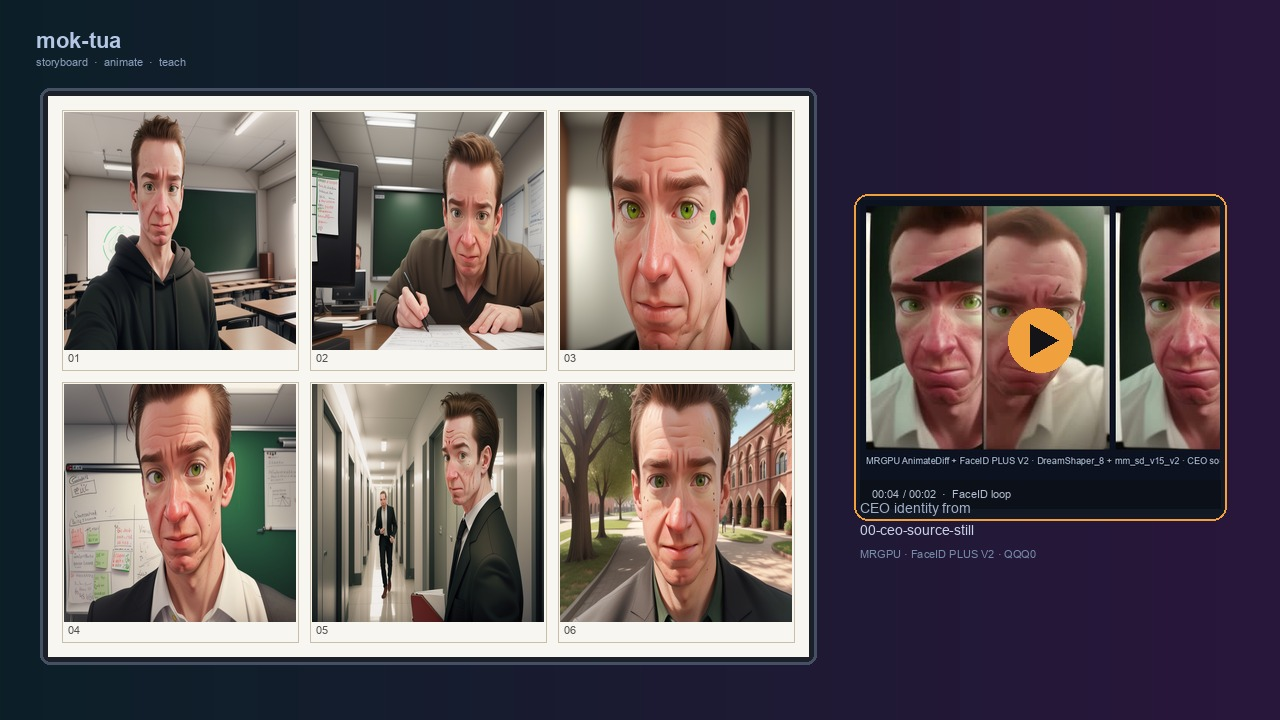
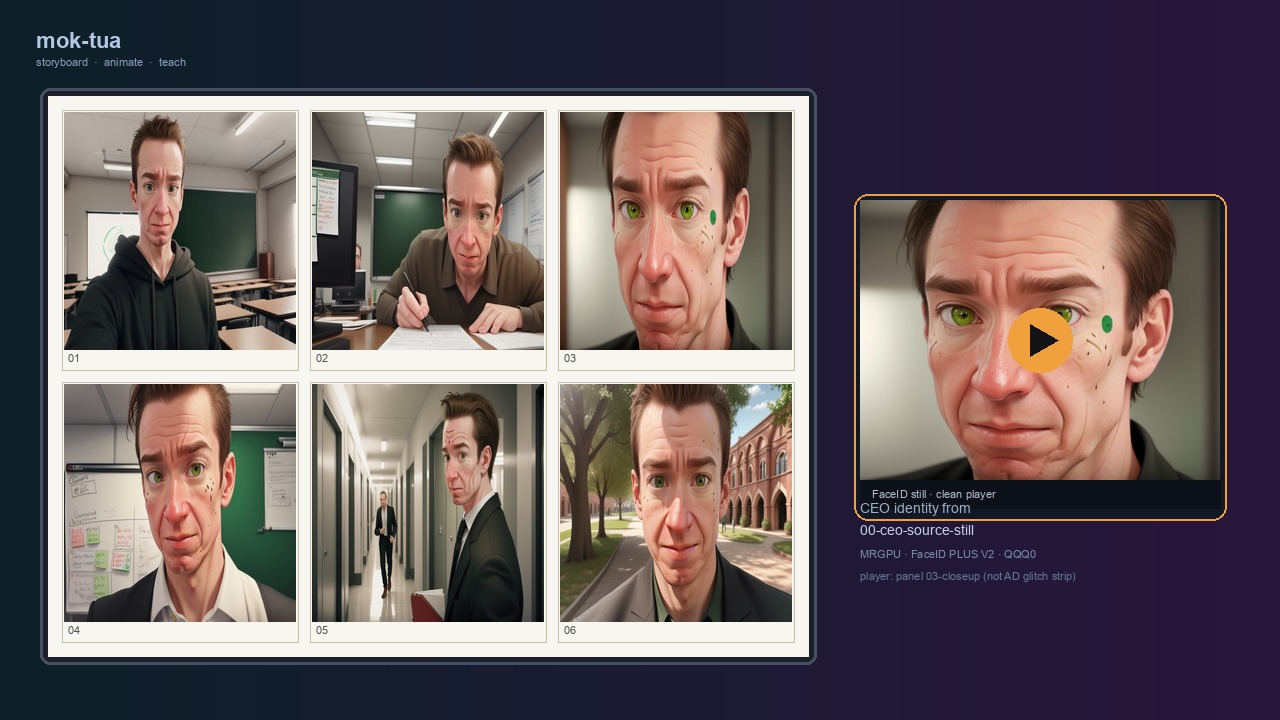
fix(assets): hero player black-blade glitch (retouch, keep 0.5.7)
Recompose hero-prompt-to-product.jpg with clean FaceID closeup in the
player chrome instead of multi-frame AD strip crop. Regen
product-capabilities-07-hero + index. Compose script law updated.

Changed region(s): [[0.6562, 0.275, 0.9688, 0.7028], [0.6562, 0.7944, 0.8438, 0.825]]

diff --git a/scripts/regen_ceo_capability_assets.py b/scripts/regen_ceo_capability_assets.py
@@ -625,26 +625,45 @@ def compose_hero(panel_paths: list[Path], strip_or_panel: Path, out_path: Path) 
         canvas.paste(im, (x, y))
         draw.text((x + 4, y + cell_h - 16), f"{i+1:02d}", fill=(80, 80, 80), font=font_xs)
 
-    # Player chrome
+    # Player chrome — ONE clean still only.
+    # Never paste a multi-frame AD strip (wide crop of glitched frames → black "blade" on forehead).
     px, py = 860, 200
     pw, ph = 360, 280
-    draw.rounded_rectangle([px - 6, py - 6, px + pw + 6, py + ph + 40], radius=14, fill=(18, 24, 36), outline=(240, 160, 60), width=2)
-    # content
+    draw.rounded_rectangle(
+        [px - 6, py - 6, px + pw + 6, py + ph + 40],
+        radius=14,
+        fill=(18, 24, 36),
+        outline=(240, 160, 60),
+        width=2,
+    )
     if strip_or_panel.is_file():
         im = Image.open(strip_or_panel).convert("RGB")
-        # if strip is wide, crop left frame-ish
-        if im.width > im.height * 1.5:
-            # use first portion
-            crop_w = int(im.height * pw / ph)
-            im = im.crop((0, 0, min(crop_w, im.width), im.height))
+        # Multi-frame strip → first frame cell only
+        if im.width > im.height * 1.8:
+            content_h = im.height - 48 if im.height > 100 else im.height
+            frame_w = max(1, (im.width - 8 * 5) // 4)
+            im = im.crop((8, 8, 8 + frame_w, 8 + max(1, content_h)))
+        # cover-crop to player aspect
+        target_ratio = pw / ph
+        ir = im.width / max(1, im.height)
+        if ir > target_ratio:
+            nh = im.height
+            nw = int(nh * target_ratio)
+            left = (im.width - nw) // 2
+            im = im.crop((left, 0, left + nw, nh))
+        else:
+            nw = im.width
+            nh = int(nw / target_ratio)
+            top = max(0, (im.height - nh) // 2 - nh // 10)
+            top = min(top, max(0, im.height - nh))
+            im = im.crop((0, top, nw, top + nh))
         im = im.resize((pw, ph), Image.Resampling.LANCZOS)
         canvas.paste(im, (px, py))
-    # play button
     cx, cy = px + pw // 2, py + ph // 2
-    draw.ellipse([cx - 32, cy - 32, cx + 32, cy + 32], fill=(240, 160, 60, 220))
+    draw.ellipse([cx - 32, cy - 32, cx + 32, cy + 32], fill=(240, 160, 60))
     draw.polygon([(cx - 10, cy - 16), (cx - 10, cy + 16), (cx + 18, cy)], fill=(20, 20, 24))
     draw.rectangle([px, py + ph, px + pw, py + ph + 28], fill=(12, 16, 24))
-    draw.text((px + 12, py + ph + 8), "00:04 / 00:02  ·  FaceID loop", fill=(180, 190, 210), font=font_xs)
+    draw.text((px + 12, py + ph + 8), "FaceID still · clean player", fill=(180, 190, 210), font=font_xs)
 
     draw.text((860, 500), "CEO identity from", fill=(160, 175, 200), font=font_sm)
     draw.text((860, 522), "00-ceo-source-still", fill=(200, 210, 230), font=font_sm)
@@ -932,7 +951,8 @@ def main() -> int:
         print("SKIP_HERO set")
     else:
         print("compose hero…")
-        hero_src = strip if strip.is_file() else (panel_paths[2] if panel_paths else SOURCE)
+        # Prefer FaceID closeup panel for player (never multi-frame AD strip → black-blade glitch)
+        hero_src = panel_paths[2] if len(panel_paths) > 2 else (panel_paths[0] if panel_paths else SOURCE)
         compose_hero(panel_paths, hero_src, hero)
         write_receipt(
             build_receipt(

diff --git a/CHANGELOG.md b/CHANGELOG.md
@@ -22,11 +22,20 @@ Format inspired by [Keep a Changelog](https://keepachangelog.com/). Dates are lo
 - README capability section documents sausage-made captions and 0.5.7 tested set.
 - Package TUI version **0.5.7**.
 
+### Fixed (example retouches — no SemVer bump)
+
+- **Hero player black-blade glitch:** `hero-prompt-to-product.jpg` right-hand player used a multi-frame
+  AnimateDiff strip crop that showed a black triangle across the forehead. Recomposed with a **single
+  clean FaceID closeup** (`capabilities/panels/03-closeup.jpg`); regen of
+  `product-capabilities/product-capabilities-07-hero.jpg` + index. Compose law: never paste multi-frame
+  AD strip into hero player.
+- Face polish + AD strip earlier retouches (gentle denoise; black-triangle frame filter).
+- Split `product-capabilities/product-capabilities-NN-*.jpg` cards (bandwidth) replace tall mega-PNG.
+
 ### Honest residuals
 
-- InsightFace **FaceID** (buffalo_l incomplete / antelope loader error) — not claimed; plus-face path used.
-- Storyboard panels remain face-weighted (wide scene variety limited without full FaceID).
 - FramePack mp4 `artifact_ok` finalize · Wan live ports · Director backends registry empty · InstantID.
+- FaceID PLUS V2 is live (padded InsightFace ref); identity still stylized DreamShaper.
 
 ## [0.5.6] — 2026-08-05
 
